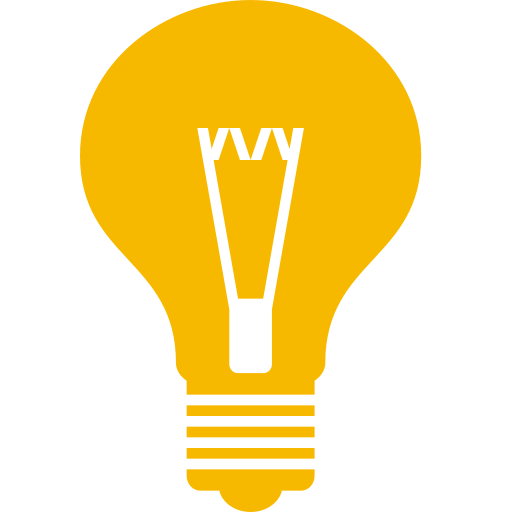
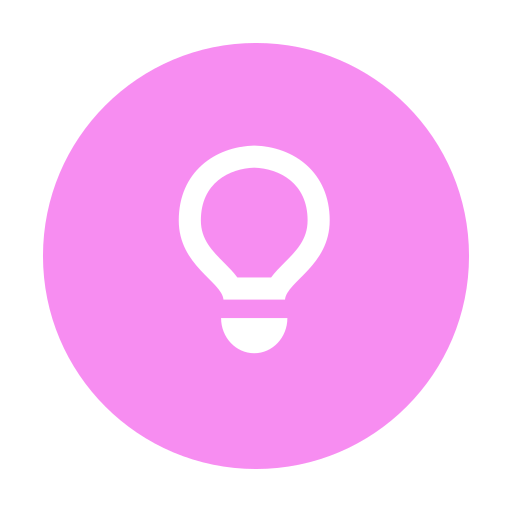
updated design

diff --git a/src/components/Settings.jsx b/src/components/Settings.jsx
@@ -2,6 +2,7 @@ import React, { useState, useEffect } from 'react';
 import { View, Text, TouchableOpacity, StyleSheet, Alert, Vibration, Dimensions, ImageBackground } from 'react-native';
 import AsyncStorage from '@react-native-async-storage/async-storage';
 import { useMusic } from '../constants/music.js';
+import Icons from './Icons.jsx';
 
 const { height } = Dimensions.get('window');
 
@@ -94,7 +95,10 @@ const Settings = () => {
                     <View style={{height: height * 0.15}} />
 
                     <View style={styles.regulatorContainer}>
-                        <Text style={styles.regulatorText}>Loudness</Text>
+                        {/* <Text style={styles.regulatorText}>Loudness</Text> */}
+                        <View style={[{width: 60, height: 60}, !isPlaying && {opacity: 0.5}]}>
+                            <Icons type={'music'} />
+                        </View>
                         <Text style={[styles.toggleText, isPlaying ? styles.toggleTextOn : styles.toggleTextOff]}>
                             {isPlaying ? 'On' : 'Off'}
                         </Text>
@@ -104,7 +108,10 @@ const Settings = () => {
                     </View>
 
                     <View style={styles.regulatorContainer}>
-                        <Text style={styles.regulatorText}>Vibration</Text>
+                        {/* <Text style={styles.regulatorText}>Vibration</Text> */}
+                        <View style={[{width: 60, height: 60}, !isPlaying && {opacity: 0.5}]}>
+                            <Icons type={'vibration'} />
+                        </View>
                         <Text style={[styles.toggleText, vibrationEnabled ? styles.toggleTextOn : styles.toggleTextOff]}>
                             {vibrationEnabled ? 'On' : 'Off'}
                         </Text>
@@ -113,7 +120,7 @@ const Settings = () => {
                         </TouchableOpacity>
                     </View>
 
-                    <View style={{height: height * 0.15}} />
+                    <View style={{height: height * 0.11}} />
 
                     <TouchableOpacity style={styles.resetBtn} onPress={() => setShowResetConfirmation(true)}>
                         <Text style={styles.btnText}>Reset</Text>
@@ -149,13 +156,13 @@ const styles = StyleSheet.create({
         alignItems: 'center',
         width: '100%',
         justifyContent: 'space-around',
-        marginBottom: 15,
+        marginBottom: height * 0.04,
     },
     regulatorText: {
         fontSize: 22,
         textAlign: 'center',
         fontWeight: 'bold',
-        color: '#c489ad'
+        color: '#e460c3'
     },
     toggleContainer: {
         padding: 7,
@@ -164,19 +171,19 @@ const styles = StyleSheet.create({
         alignItems: 'center',
         borderWidth: 1,
         borderRadius: 30,
-        borderColor: '#c489ad',
+        borderColor: '#e460c3',
     },
     toggleContainerOff: {
-        borderColor: '#d1d1d1',
+        borderColor: '#8e7e8a',
     },
     toggleText: {
         fontSize: 16,
     },
     toggleTextOn: {
-        color: '#e2d6b1',
+        color: '#e460c3',
     },
     toggleTextOff: {
-        color: '#d1d1d1',
+        color: '#8e7e8a',
     },
     toggle: {
         borderRadius: 30,
@@ -184,22 +191,12 @@ const styles = StyleSheet.create({
         height: '100%',
     },
     toggleOn: {
-        backgroundColor: '#c489ad',
+        backgroundColor: '#e460c3',
         alignSelf: 'flex-end',
     },
     toggleOff: {
-        backgroundColor: '#d1d1d1',
+        backgroundColor: '#8e7e8a',
         alignSelf: 'flex-start',
-    },
-    shareBtn: {
-        width: '100%',
-        backgroundColor: '#b9a76f',
-        borderRadius: 15,
-        padding: 15,
-        alignItems: 'center',
-        justifyContent: 'center',
-        marginBottom: 15,
-        marginTop: height * 0.15,
     },
     btnText: {
         fontSize: 19,

diff --git a/src/components/Results.jsx b/src/components/Results.jsx
@@ -1,10 +1,23 @@
 import React, { useState, useEffect } from 'react';
-import { View, Text, FlatList, StyleSheet, Dimensions, ImageBackground, TouchableOpacity, Share } from 'react-native';
+import { View, Text, FlatList, StyleSheet, Dimensions, ImageBackground, TouchableOpacity, Share, Image } from 'react-native';
 import AsyncStorage from '@react-native-async-storage/async-storage';
 import { useNavigation } from '@react-navigation/native';
 import Icons from './Icons';
 
 const { height, width } = Dimensions.get('window');
+
+const avatars = [
+  require('../assets/avatar/1.png'),
+  require('../assets/avatar/2.png'),
+  require('../assets/avatar/3.png'),
+  require('../assets/avatar/4.png'),
+  require('../assets/avatar/5.png'),
+  require('../assets/avatar/6.png'),
+  require('../assets/avatar/7.png'),
+  require('../assets/avatar/8.png'),
+  require('../assets/avatar/9.png'),
+  require('../assets/avatar/10.png'),
+]
 
 const Results = () => {
   const navigation = useNavigation();
@@ -25,6 +38,7 @@ const Results = () => {
       const user = {
         name: generateRandomName(),
         score: Math.floor(Math.random() * (11500) + 500),
+        avatar: avatars[Math.floor(Math.random() * avatars.length)],
       };
       generatedUsers.push(user);
     }
@@ -72,11 +86,13 @@ const Results = () => {
         data={users}
         renderItem={({ item }) => (
           <View style={styles.userContainer}>
+            <Image source={item.avatar} style={{width: 60, height: 60}} />
             <Text style={styles.userName}>{item.name}</Text>
             <Text style={styles.userScore}>{item.score}</Text>
           </View>
         )}
         keyExtractor={(item, index) => index.toString()}
+        contentContainerStyle={styles.list}
       />
 
       <TouchableOpacity style={styles.shareButton} onPress={handleShare}>
@@ -112,11 +128,18 @@ const styles = StyleSheet.create({
     color: '#e75da5',
     marginBottom: height * 0.03,
   },
+  list: {
+    width: width * 0.87,
+    alignItems: 'center',
+    justifyContent: 'space-between',
+    flexDirection: 'row',
+    flexWrap: 'wrap',
+  },
   userContainer: {
-    width: width * 0.85,
+    width: width * 0.41,
+    height: height * 0.25,
     padding: 15,
     backgroundColor: '#fff',
-    flexDirection: 'row',
     alignItems: 'center',
     justifyContent: 'space-between',
     borderRadius: 10,
@@ -127,13 +150,15 @@ const styles = StyleSheet.create({
     shadowRadius: 4,
   },
   userName: {
-    fontSize: 18,
+    fontSize: 16,
     fontWeight: '600',
     color: '#6c1b45',
+    textAlign: 'center'
   },
   userScore: {
-    fontSize: 16,
+    fontSize: 18,
     color: '#555',
+    fontWeight: '800'
   },
   shareButton: {
     width: 200,

diff --git a/src/components/Topics.jsx b/src/components/Topics.jsx
@@ -30,7 +30,7 @@ const Topics = ({ difficulty }) => {
             <ScrollView style={{width: '100%'}}>
                 <View style={styles.btnContainer}>
                     {difficulty === 'easy' && easy.map((item, index) => (
-                        <View key={index} style={{width: '40%', marginBottom: height * 0.015, alignItems: 'center'}}>
+                        <View key={index} style={{width: '100%', marginBottom: height * 0.04, alignItems: 'center'}}>
                             <TouchableOpacity style={styles.btn} onPress={() => handleNavigation(item, 'easy')}>
                                 <Image source={item.image} style={styles.image}/>
                             </TouchableOpacity>
@@ -43,7 +43,7 @@ const Topics = ({ difficulty }) => {
             <ScrollView style={{width: '100%'}}>
                 <View style={styles.btnContainer}>
                     {difficulty === 'peak' && peak.map((item, index) => (
-                        <View key={index} style={{width: '40%', marginBottom: height * 0.015, alignItems: 'center'}}>
+                        <View key={index} style={{width: '100%', marginBottom: height * 0.04, alignItems: 'center'}}>
                             <TouchableOpacity style={styles.btn} onPress={() => handleNavigation(item, 'peak')}>
                                 <Image source={item.image} style={styles.image}/>
                             </TouchableOpacity>
@@ -98,7 +98,7 @@ const styles = StyleSheet.create({
 
     btn: {
         width: '100%',
-        height: height * 0.15,
+        height: height * 0.25,
         borderRadius: 12,
         borderWidth: 2,
         borderColor: '#9d7ff7',
@@ -115,8 +115,8 @@ const styles = StyleSheet.create({
     },
 
     btnText: {
-        fontSize: 14,
-        fontWeight: '700',
+        fontSize: 18,
+        fontWeight: '900',
         color: '#9d7ff7',
         textAlign: 'center'
     }

diff --git a/src/components/EasyQuiz.jsx b/src/components/EasyQuiz.jsx
@@ -234,10 +234,6 @@ const EasyQuiz = ({ quiz }) => {
       <View style={styles.questionContainer}>
         <Text style={styles.question}>{question.question}</Text>
         <View style={{ flexDirection: 'row', justifyContent: 'space-between', marginBottom: height * 0.01 }}>
-          <Text style={styles.timer}>{formatTime(timer)}</Text>
-          <Text style={styles.timer}>{score}</Text>
-        </View>
-        <View style={{ flexDirection: 'row', justifyContent: 'space-between', marginBottom: height * 0.01 }}>
           <TouchableOpacity style={{ flexDirection: 'row' }} onPress={() => setShowLives(true)}>
             {[...Array(3)].map((_, index) => (
               <View key={index} style={styles.heart}>
@@ -248,6 +244,10 @@ const EasyQuiz = ({ quiz }) => {
           <TouchableOpacity onPress={() => setShowHints(true)} style={styles.hint}>
             <Icons type="hint" />
           </TouchableOpacity>
+        </View>
+        <View style={{ flexDirection: 'row', justifyContent: 'space-between', marginBottom: height * 0.01 }}>
+          <Text style={styles.timer}>{formatTime(timer)}</Text>
+          <Text style={styles.timer}>{score}</Text>
         </View>
         <View style={styles.optionsContainer}>
           {options.map((option, index) => {
@@ -456,13 +456,13 @@ const styles = StyleSheet.create({
     color: '#6c1b45',
   },
   heart: {
-    width: 35,
-    height: 35,
-    marginRight: 1,
+    width: 30,
+    height: 30,
+    marginRight: 3,
   },
   hint: {
-    width: 35,
-    height: 35,
+    width: 40,
+    height: 40,
   },
   hintsContainer: {
     height: '50%'

diff --git a/src/components/PeakQuiz.jsx b/src/components/PeakQuiz.jsx
@@ -237,10 +237,6 @@ const ChampionQuiz = ({ quiz }) => {
       <View style={styles.questionContainer}>
         <Text style={styles.question}>{question.question}</Text>
         <View style={{ flexDirection: 'row', justifyContent: 'space-between', marginBottom: 20 }}>
-          <Text style={styles.timer}>{formatTime(timer)}</Text>
-          <Text style={styles.timer}>{score}</Text>
-        </View>
-        <View style={{ flexDirection: 'row', justifyContent: 'space-between', marginBottom: 20 }}>
           <TouchableOpacity style={{ flexDirection: 'row' }} onPress={() => setShowLives(true)}>
             {[...Array(3)].map((_, index) => (
               <View key={index} style={styles.heart}>
@@ -251,6 +247,10 @@ const ChampionQuiz = ({ quiz }) => {
           <TouchableOpacity onPress={() => setShowHints(true)} style={styles.hint}>
             <Icons type="hint" />
           </TouchableOpacity>
+        </View>
+        <View style={{ flexDirection: 'row', justifyContent: 'space-between', marginBottom: 20 }}>
+          <Text style={styles.timer}>{formatTime(timer)}</Text>
+          <Text style={styles.timer}>{score}</Text>
         </View>
         <View style={styles.optionsContainer}>
           {options.map((option, index) => {
@@ -469,13 +469,13 @@ const styles = StyleSheet.create({
     color: '#6c1b45',
   },
   heart: {
-    width: 35,
-    height: 35,
-    marginRight: 1,
+    width: 30,
+    height: 30,
+    marginRight: 3,
   },
   hint: {
-    width: 35,
-    height: 35,
+    width: 40,
+    height: 40,
   },
   hintsContainer: {
     height: '50%'

diff --git a/src/components/Stories.jsx b/src/components/Stories.jsx
@@ -93,8 +93,8 @@ const Stories = () => {
     renderItem={({ item, index }) => (
       <View style={{ alignItems: 'center' }}>
         <View style={styles.topicCard}>
-          <Image source={item.image} style={styles.topicImage} />
           <Text style={styles.topicTitle}>{item.topic}</Text>
+          <Image source={item.image} style={styles.topicImage} />
 
           <TouchableOpacity
             style={[
@@ -111,7 +111,7 @@ const Stories = () => {
         </View>
             <View style={{ width: width * 0.85, alignItems: 'center' }}>
               <ScrollView
-                style={{ width: width * 0.85, maxHeight: height * 0.2 }}
+                style={{ width: width * 0.85, maxHeight: height * 0.22 }}
                 nestedScrollEnabled={true}
               >
                 {purchasedTopics[index] &&
@@ -205,8 +205,7 @@ const styles = StyleSheet.create({
   topicCard: {
     width: width * 0.85,
     height: height * 0.42,
-    marginBottom: height * 0.03,
-    backgroundColor: '#f0f0f0',
+    marginBottom: height * 0.01,
     borderRadius: 10,
     marginHorizontal: 10,
     justifyContent: 'flex-start',

diff --git a/src/components/Icons.jsx b/src/components/Icons.jsx
@@ -55,7 +55,12 @@ const Icons = ({ type }) => {
         imageSource = require('../assets/common/saved.png');
         iconStyle.push(styles.back);
     break;
-
+    case 'music':
+        imageSource = require('../assets/common/music.png');
+    break;
+    case 'vibration':
+        imageSource = require('../assets/common/vibration.png');
+    break;
   }
 
   return (

diff --git a/src/components/Home.jsx b/src/components/Home.jsx
@@ -141,7 +141,7 @@ const Home = () => {
                     />
                 </View>
                     <View style={styles.nameBox}>
-                        <Text style={styles.name}>Hi, {userName || "User"}</Text>
+                        <Text style={styles.name}>Hi, {userName || "user"}</Text>
                     </View>
             </TouchableOpacity>
 
